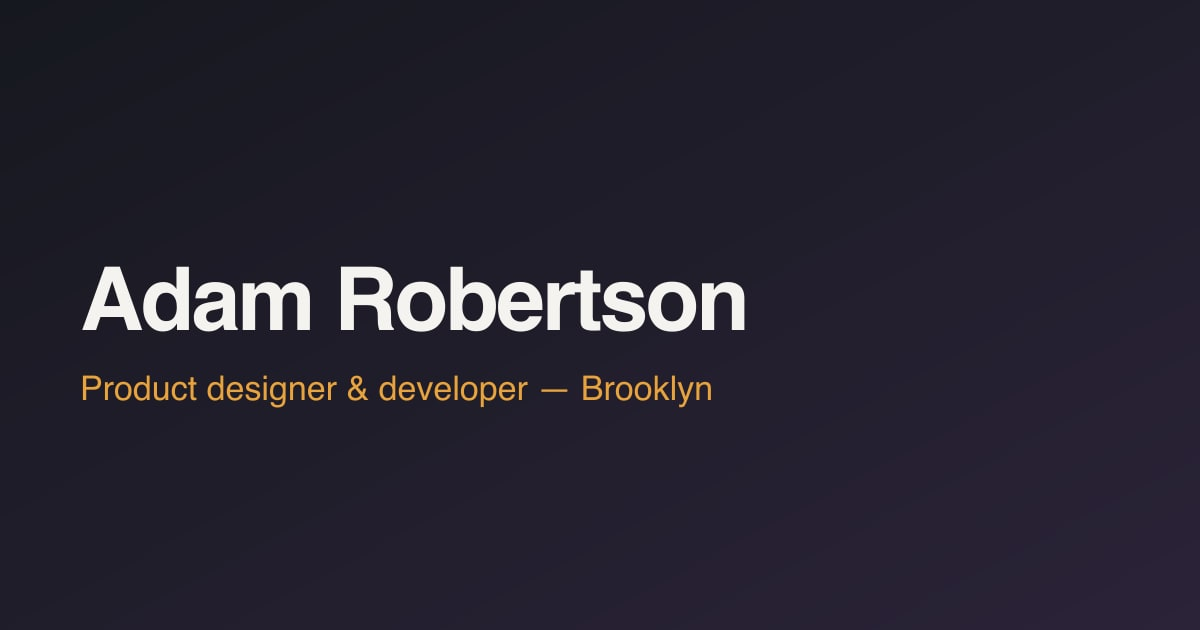
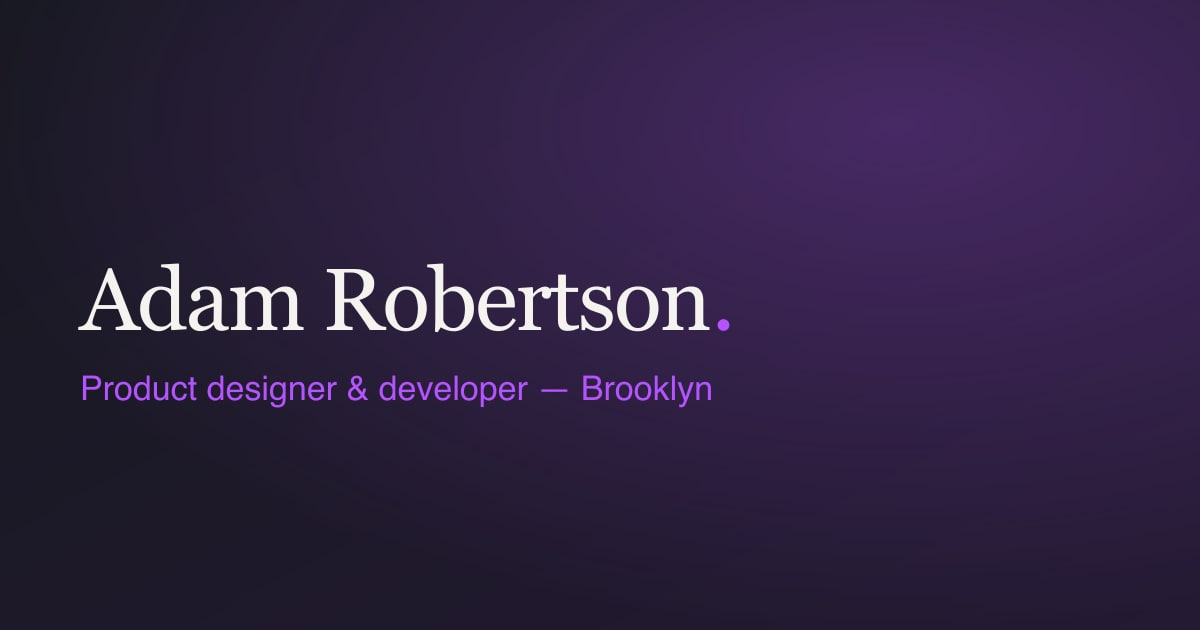
Rebrand accent from amber to electric violet
Shifts the single brand accent to oklch(0.66 0.27 302) — a high-chroma
electric violet, tuned to L=0.66 so it clears AA (5.2:1 on the dark
surface) for the small case-study link text that uses it. Availability
green stays separate. Regenerates the OG card to match.

diff --git a/src/styles/global.css b/src/styles/global.css
@@ -62,9 +62,13 @@
   --color-surface: oklch(0.16 0.006 260);
   --color-surface-lift: oklch(0.21 0.008 260);
   --color-line: oklch(0.31 0.01 260);
-  --color-accent: oklch(0.78 0.17 82);
+  /* Electric violet. High chroma for edge; L=0.66 lands it at 5.2:1 on
+     --color-surface, which clears AA for the small case-study link text that
+     uses it. Don't drop below L≈0.62 or those links fall under 4.5:1. */
+  --color-accent: oklch(0.66 0.27 302);
   /* Availability indicator only — kept separate from --color-accent so the
-     brand colour can change without the "available" signal going with it. */
+     brand colour can change without the "available" signal going with it.
+     Green reads as "go / available" by convention, so it stays green. */
   --color-status: oklch(0.8 0.19 148);
 
   /* Motion — shared between CSS and GSAP so the two never disagree. */
